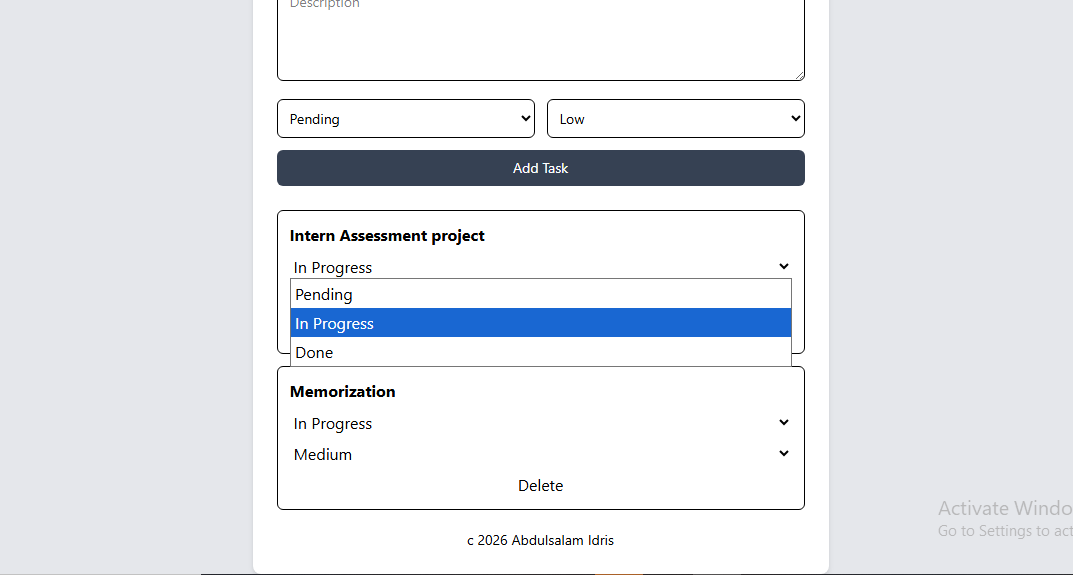
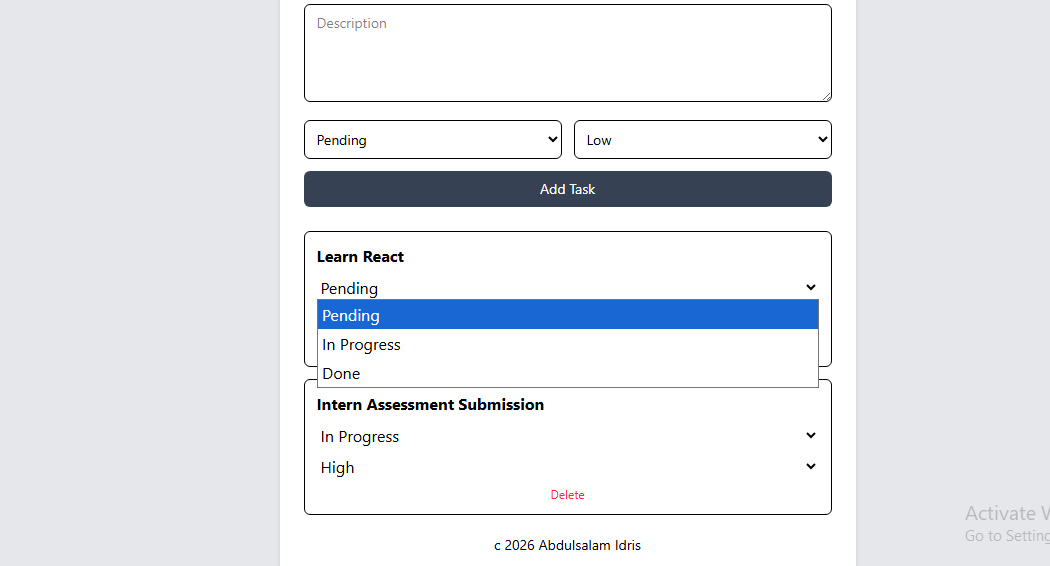
file structure details added to README as requested

Changed region(s): [[0.0, 0.0, 1.0, 1.0], [0.8838, 0.871, 1.0, 0.9611], [0.4876, 0.811, 0.579, 0.9011]]

diff --git a/src/components/TaskItem.jsx b/src/components/TaskItem.jsx
@@ -26,7 +26,7 @@ export default function TaskItem({ task, onUpdate, onDelete }) {
             </select>
 
 
-            <button onClick={() => onDelete(task._id)}>Delete</button>
+            <button onClick={() => onDelete(task._id)} className="text-red-500 text-xs hover:underline">Delete</button>
         </li>
     );
 }

diff --git a/README.md b/README.md
@@ -25,6 +25,26 @@ The goal of this assessment is to show frontend fundamentals such as:
 - React Hooks (`useState`, `useEffect`)
 - Mock API (frontend-only)
 
+## src/
+
+### api/
+
+- tasks.js # Mock API logic
+
+### components/
+
+- TaskForm.jsx # Create task form
+- TaskList.jsx # Task list view
+- TaskItem.jsx # Single task row with inline edit
+
+### config/
+
+- config.js # API base URL configuration
+
+## App.jsx # Main application logic
+
+## main.jsx
+
 ## Installation & Running the App
 
 1. Clone the repository:
